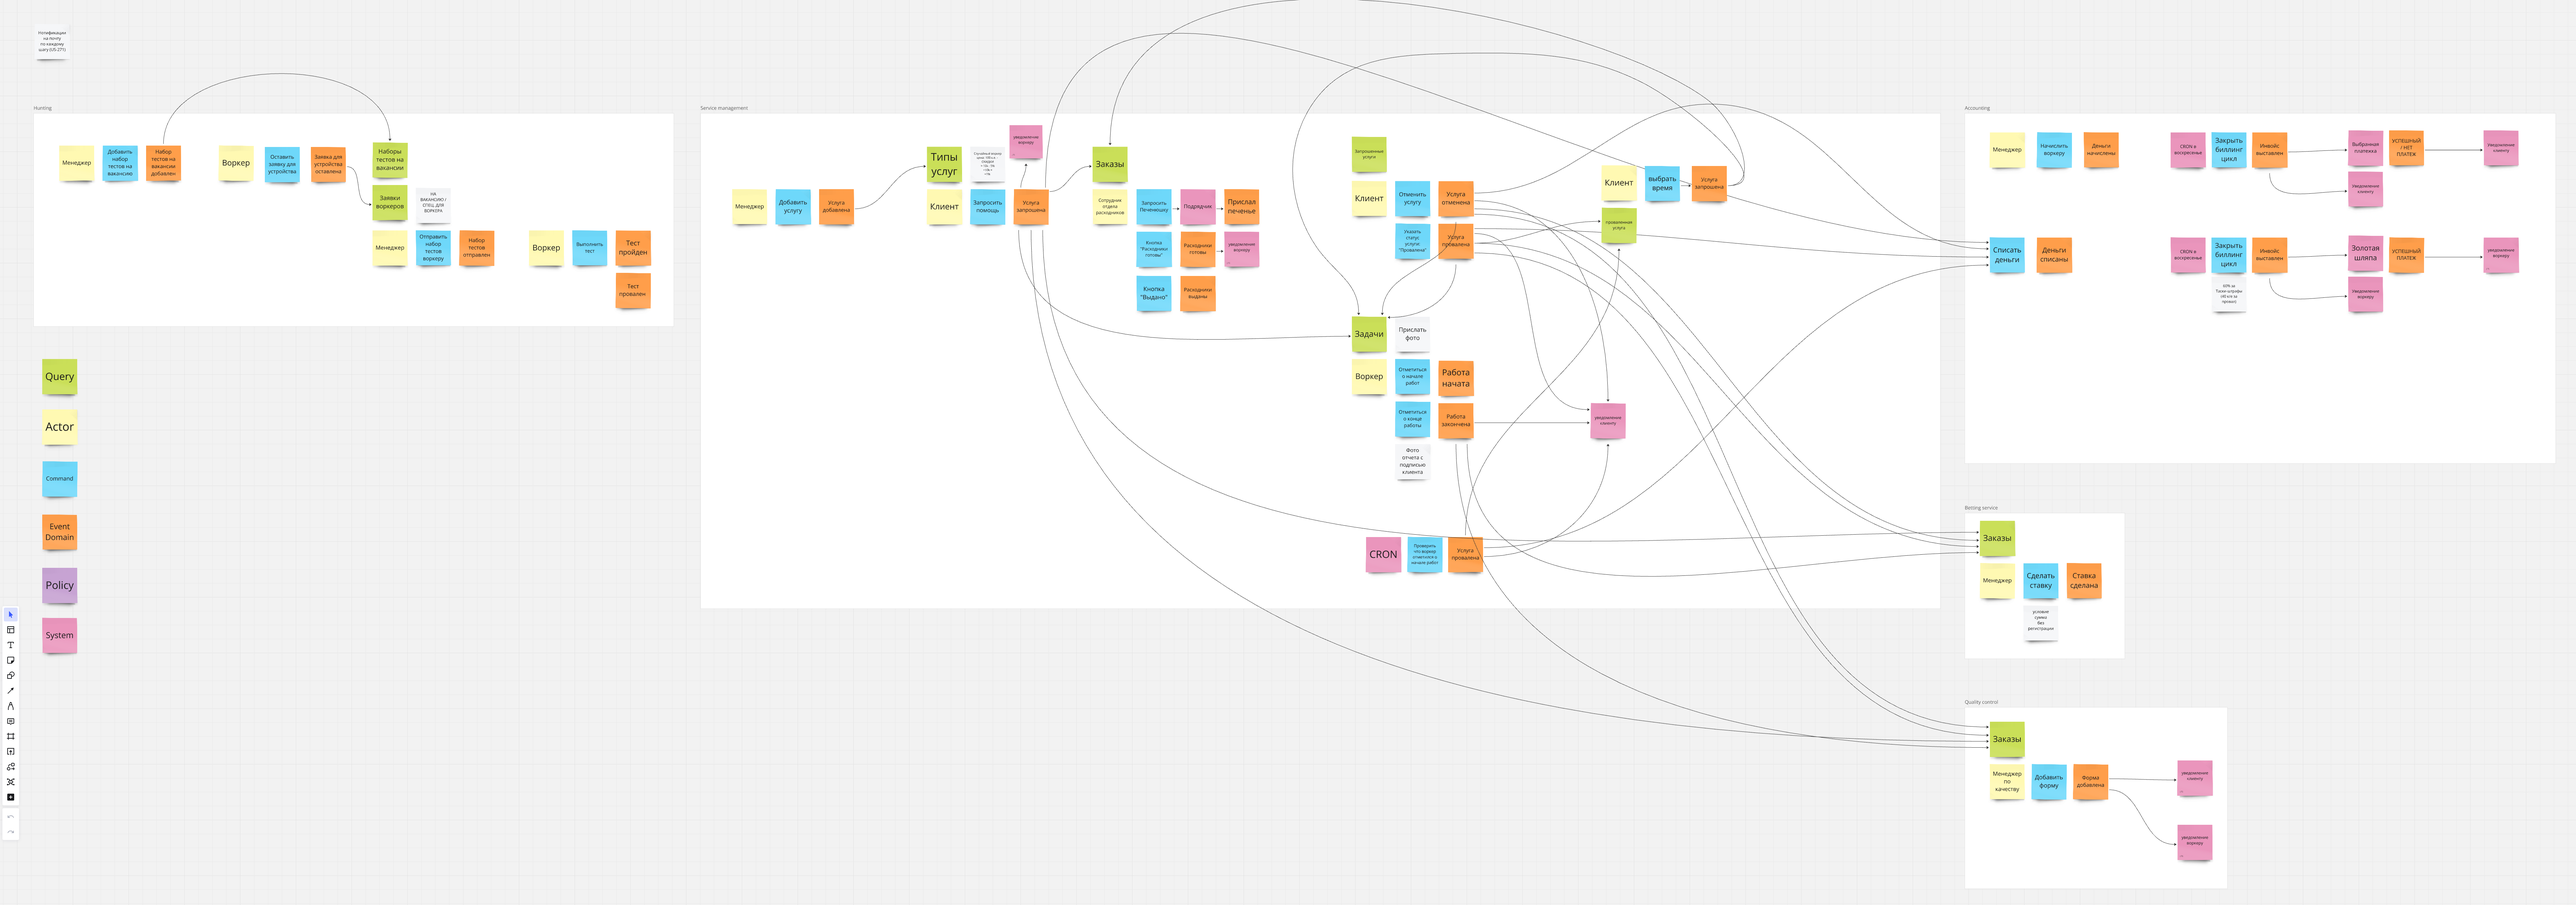
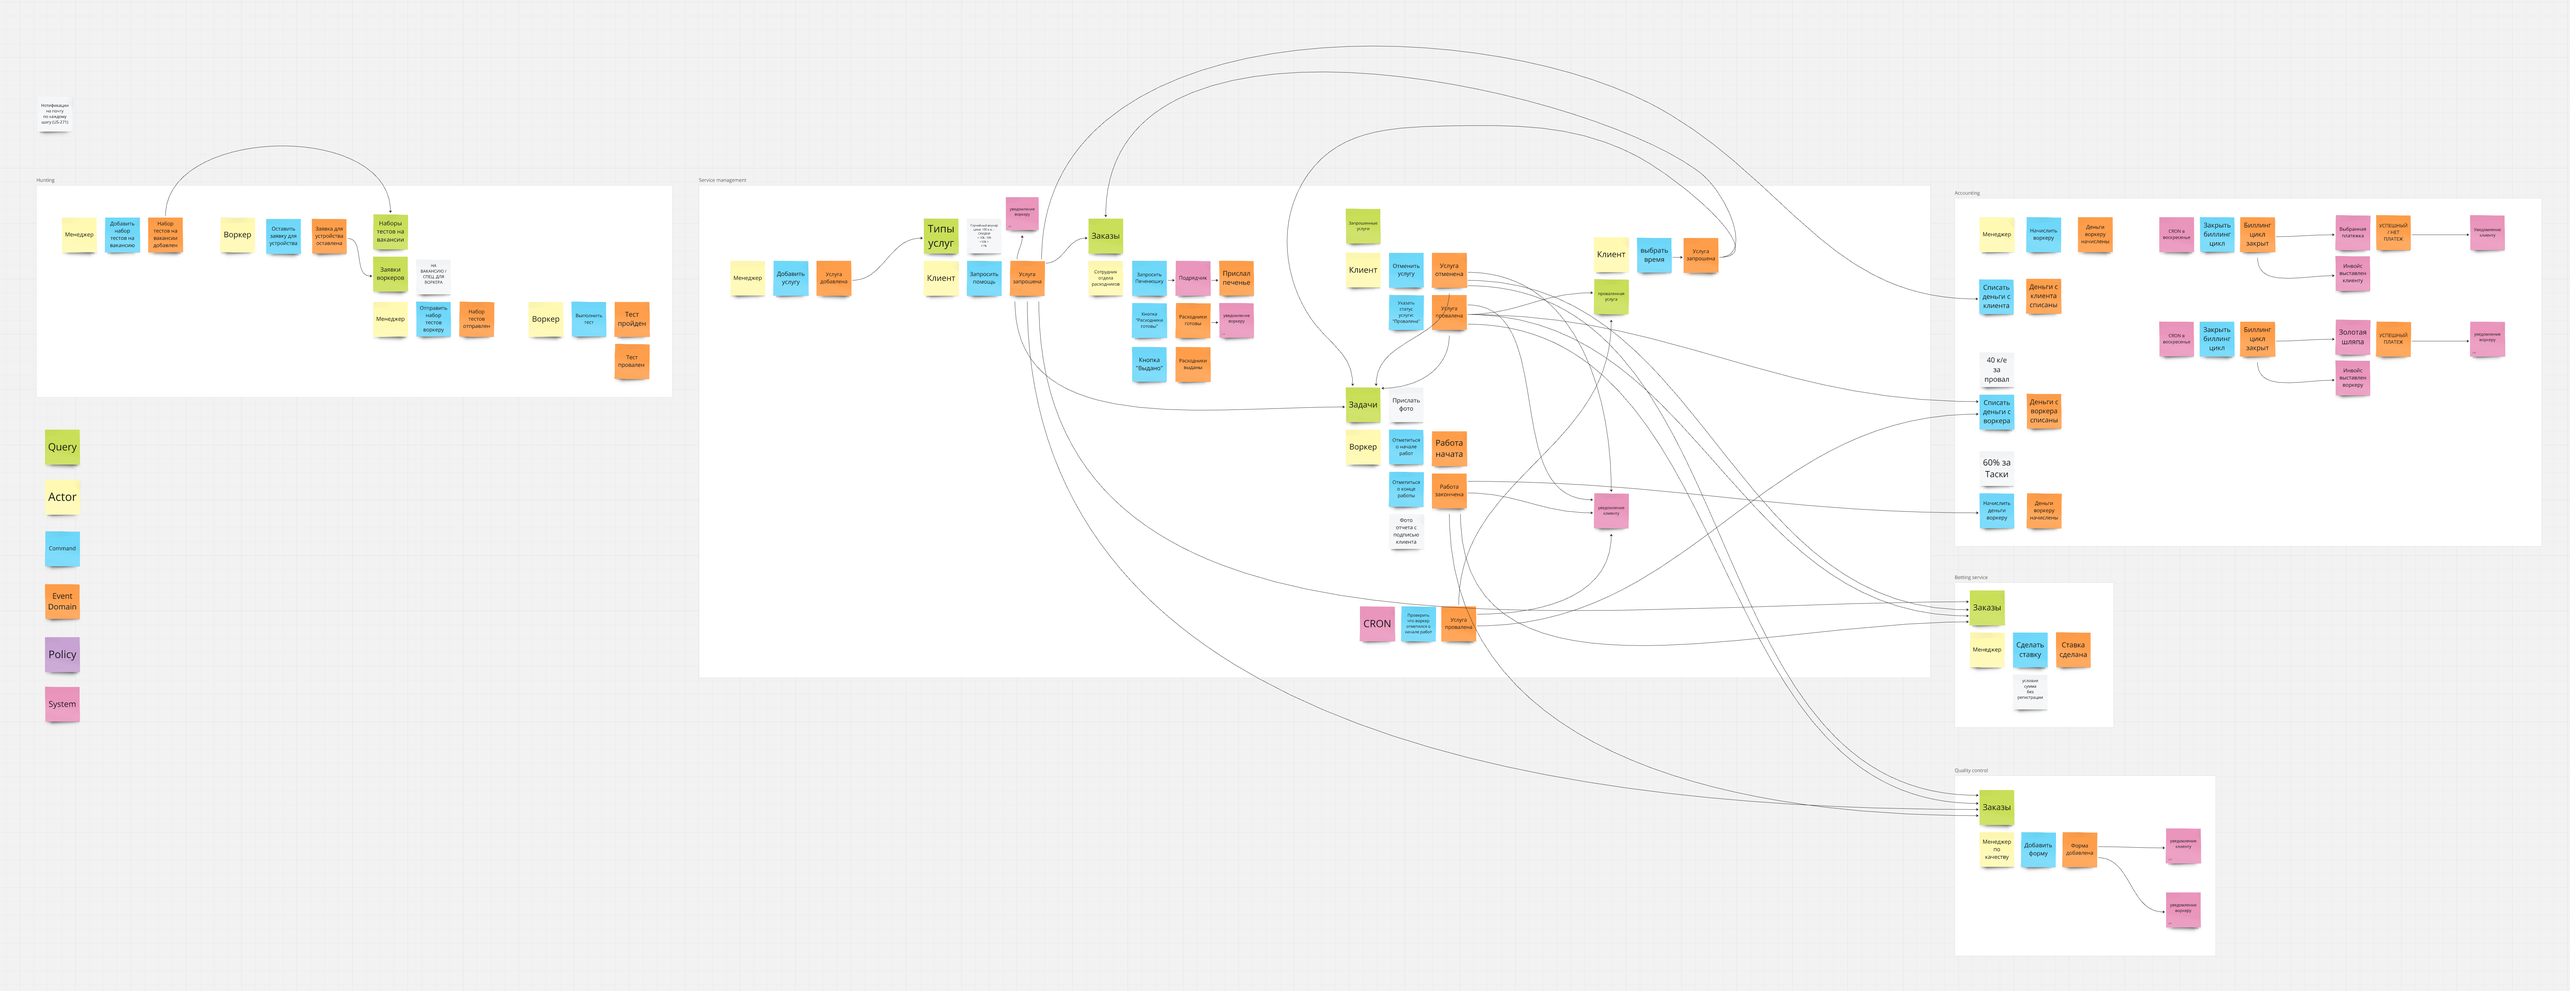
[HW_1] Communications

diff --git a/HW_1.md b/HW_1.md
@@ -6,5 +6,6 @@
 
 ### Модель данных
 ![Data Model](images/hw_1/DM.png)
-### Сервисы
-![Services](images/hw_0/Services.png)
+
+### Коммуникации 
+![Communications](images/hw_1/Communications.png)
